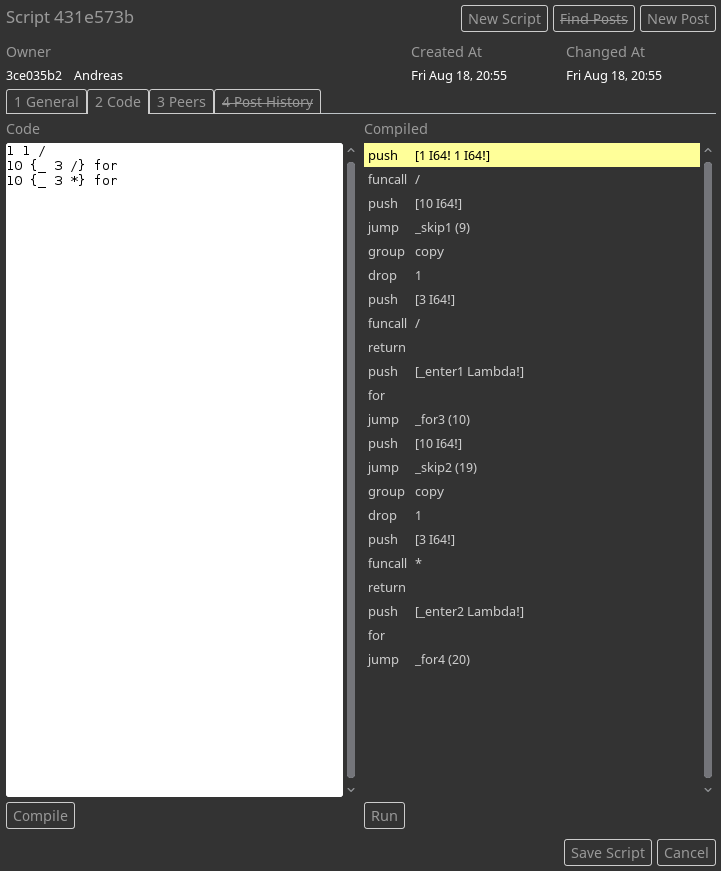
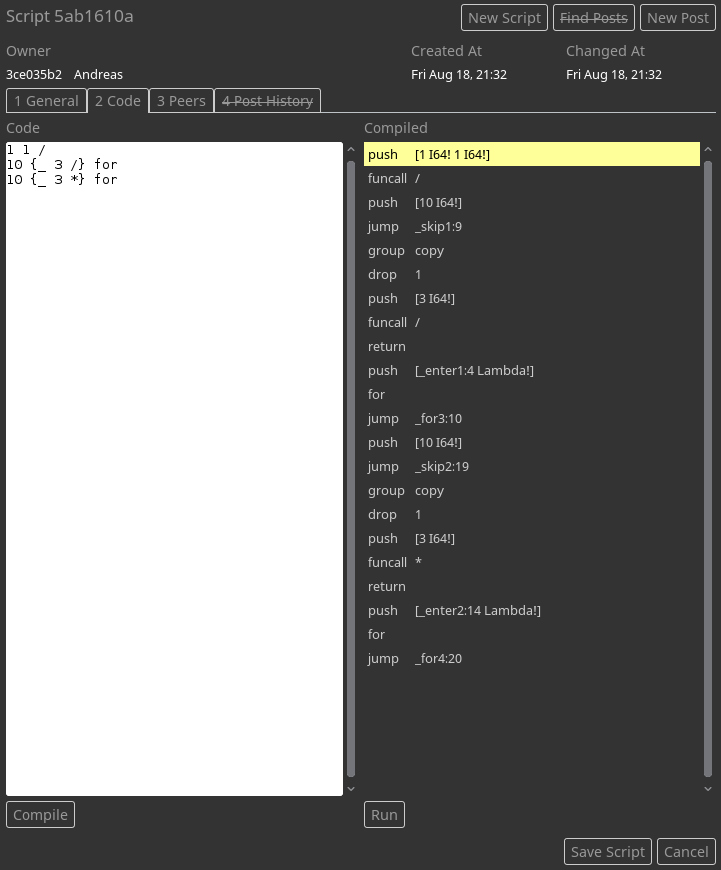
skip scope refresh

diff --git a/src/snabel/op.cpp b/src/snabel/op.cpp
@@ -558,7 +558,7 @@ namespace snabel {
   }
 
   str Jump::info() const {
-    return fmt("%0 (%1)", tag, label ? to_str(label->pc) : "?");
+    return fmt("%0:%1", tag, label ? to_str(label->pc) : "?");
   }
 
   bool Jump::refresh(Scope &scp) {
